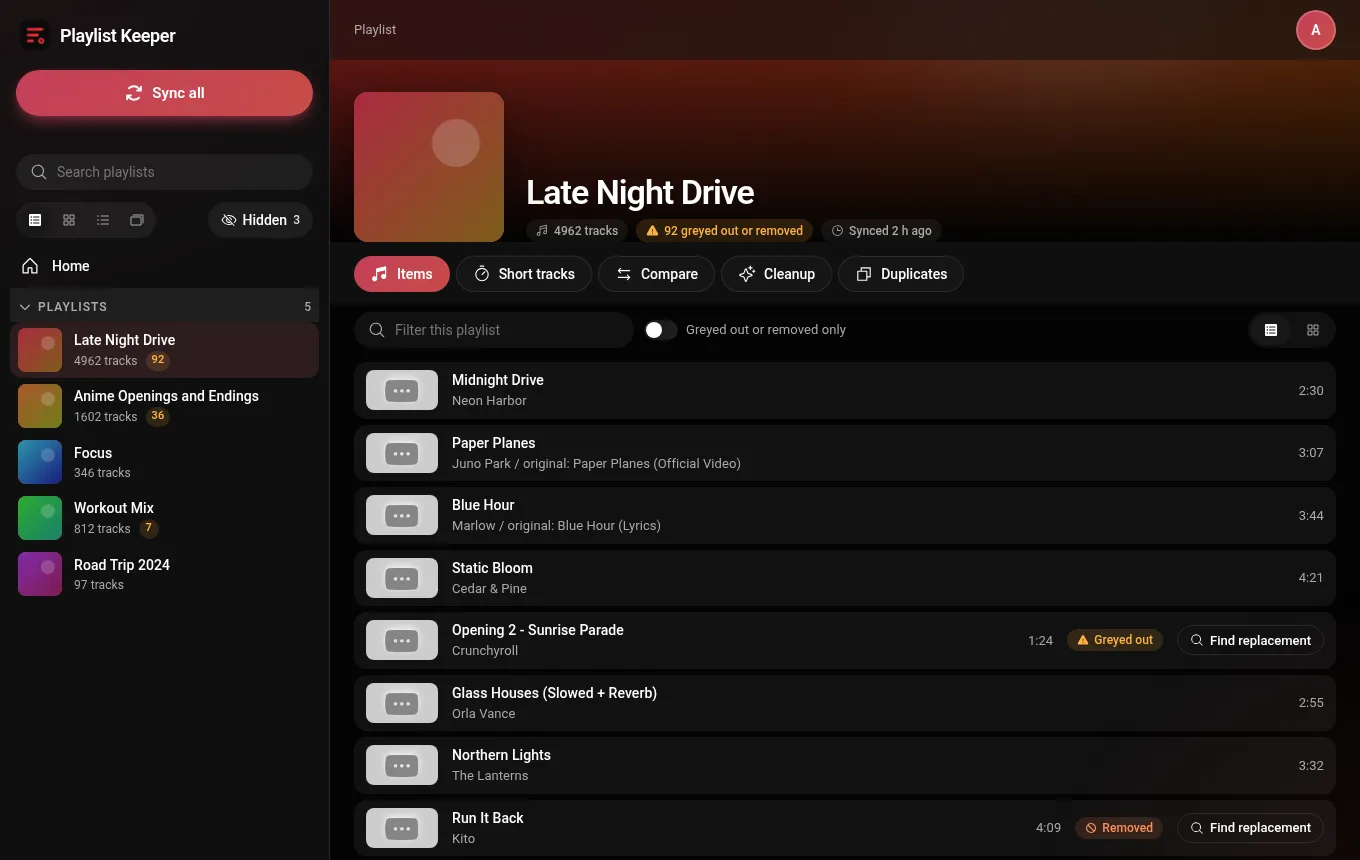
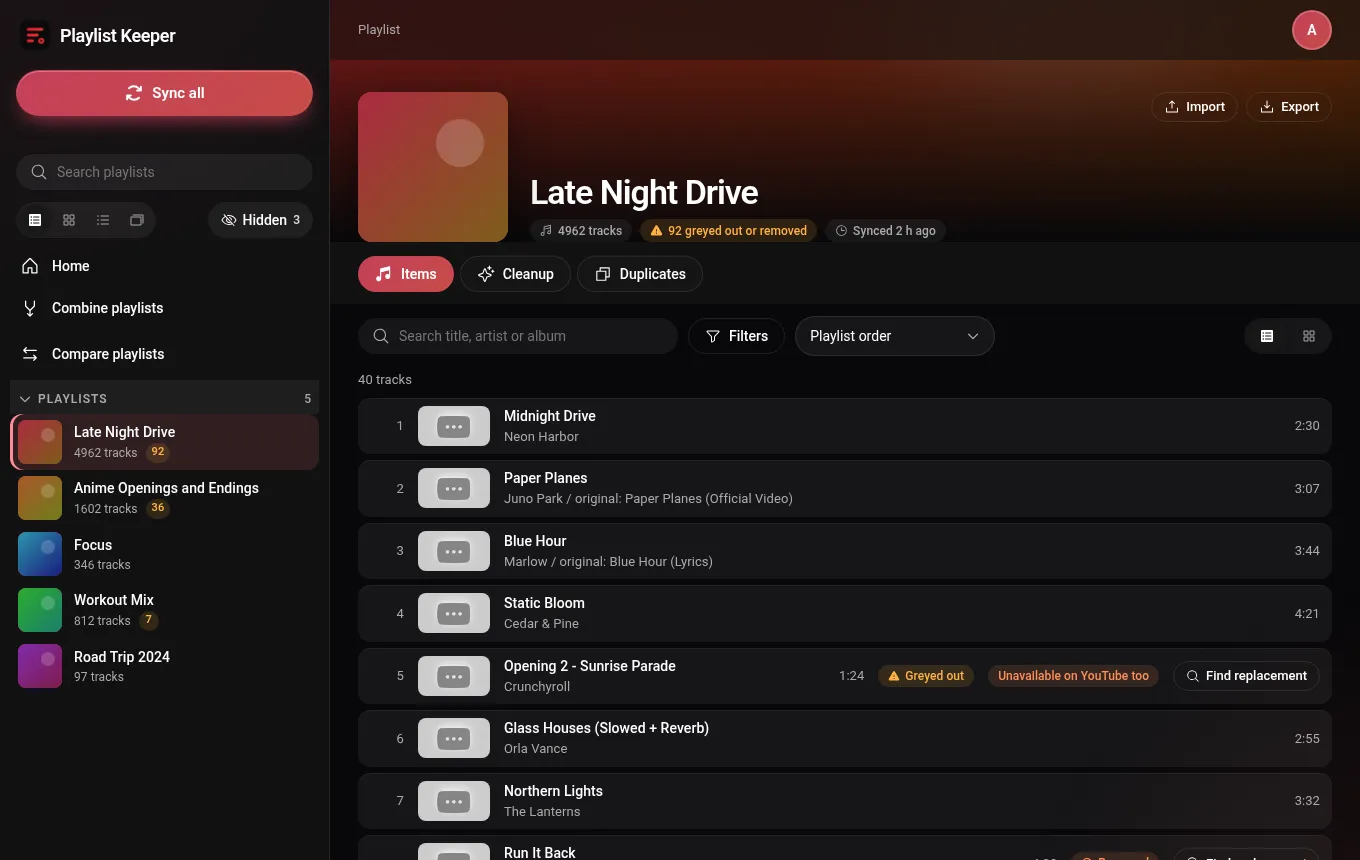
Update the landing page for v0.3.0
[skip release]

diff --git a/src/dev/mock.ts b/src/dev/mock.ts
@@ -2,7 +2,7 @@
  * Dev-only look-and-feel harness: open the plain Vite page with ?mock=1 and the store is filled with FAKE data
  * (no Tauri, no network, no personal data) so every screen can be rendered in headless Chrome.
  *   ?mock=1&theme=dark|light&view=list|grid|compact|cards&tracks=list|grid&open=<playlist title>&tab=items|clean|dupes
- *   &menu=1&confirm=1&ddopen=1&hidden=1&screen=home|connect|connect-back&empty=1&about=1&combine=1&compare=1&tasks=1&tasksopen=1&big=1
+ *   &menu=1&confirm=1&ddopen=1&hidden=1&screen=home|connect|connect-back&empty=1&about=1&combine=1&combinepick=1&compare=1&sbs=1&tasks=1&tasksopen=1&big=1
  * Compiled out of release builds (only imported under import.meta.env.DEV).
  */
 import type { YtClient } from '../services/actions';
@@ -77,6 +77,7 @@ export function applyMock(store: typeof Store, q: URLSearchParams): void {
   const screen = q.get('screen');
   if (q.has('about')) store.aboutOpen = true;
   if (q.has('combine')) store.openCombine();
+  if (q.has('combinepick')) void import('../ui/pages/combineFlow.svelte').then(({ flow }) => (flow.picked = ['p1', 'p5', 'p3']));
   if (q.has('compare')) store.openCompare();
   if (q.has('tasks')) {
     const run = tasks.start({ title: 'Creating "Road trip, all together"', open: () => store.openCombine(), total: 4200 });

diff --git a/website/src/styles/site.css b/website/src/styles/site.css
@@ -189,8 +189,8 @@ section { padding: clamp(56px, 9vw, 110px) 0; position: relative; }
 .steps b { display: block; font-weight: 600; } .steps span { color: var(--mut); font-size: 15.5px; }
 
 /* screenshots */
-.tabs { display: inline-flex; gap: 4px; padding: 4px; border: 1px solid var(--line); border-radius: var(--pill); background: var(--surface); }
-.tabs button { display: inline-flex; align-items: center; gap: 8px; min-height: 38px; padding: 0 18px; border: 0; border-radius: var(--pill); background: transparent; color: var(--mut); font-weight: 500; transition: color 0.2s, background 0.25s; }
+.tabs { display: inline-flex; max-width: 100%; overflow-x: auto; scrollbar-width: none; gap: 4px; padding: 4px; border: 1px solid var(--line); border-radius: var(--pill); background: var(--surface); }
+.tabs button { flex: none; display: inline-flex; align-items: center; gap: 8px; min-height: 38px; padding: 0 18px; border: 0; border-radius: var(--pill); background: transparent; color: var(--mut); font-weight: 500; transition: color 0.2s, background 0.25s; }
 .tabs button:hover { color: var(--fg); }
 .tabs button[aria-selected='true'] { background: linear-gradient(135deg, var(--grad-a), var(--grad-b)); color: var(--on-accent); }
 .gallery .window { --rx: 0deg; margin-top: 26px; transform: none; }

diff --git a/website/src/scripts/site.ts b/website/src/scripts/site.ts
@@ -86,8 +86,10 @@ function tabs(group: string, attr: string, show: (v: string) => void) {
 }
 const CAPS: Record<string, string> = {
   home: 'The Home page lists the playlists that need attention first.',
-  items: 'Every track, with its status and a one-click "Find replacement".',
-  short: 'Clips that are a cut of a longer song, with the full version one click away.',
+  items: 'Every track numbered, with its status and a one-click "Find replacement".',
+  filters: 'Search and filter by title, artist, album, length and status.',
+  combine: 'Choose playlists, set their order, and copy them into a new playlist.',
+  compare: 'Two playlists side by side, with a mark on every position that differs.',
 };
 tabs('#shots-tabs', 'pane', (v) => {
   $('.gallery .pane').forEach((p) => p.classList.toggle('on', p.id === `pane-${v}`));
